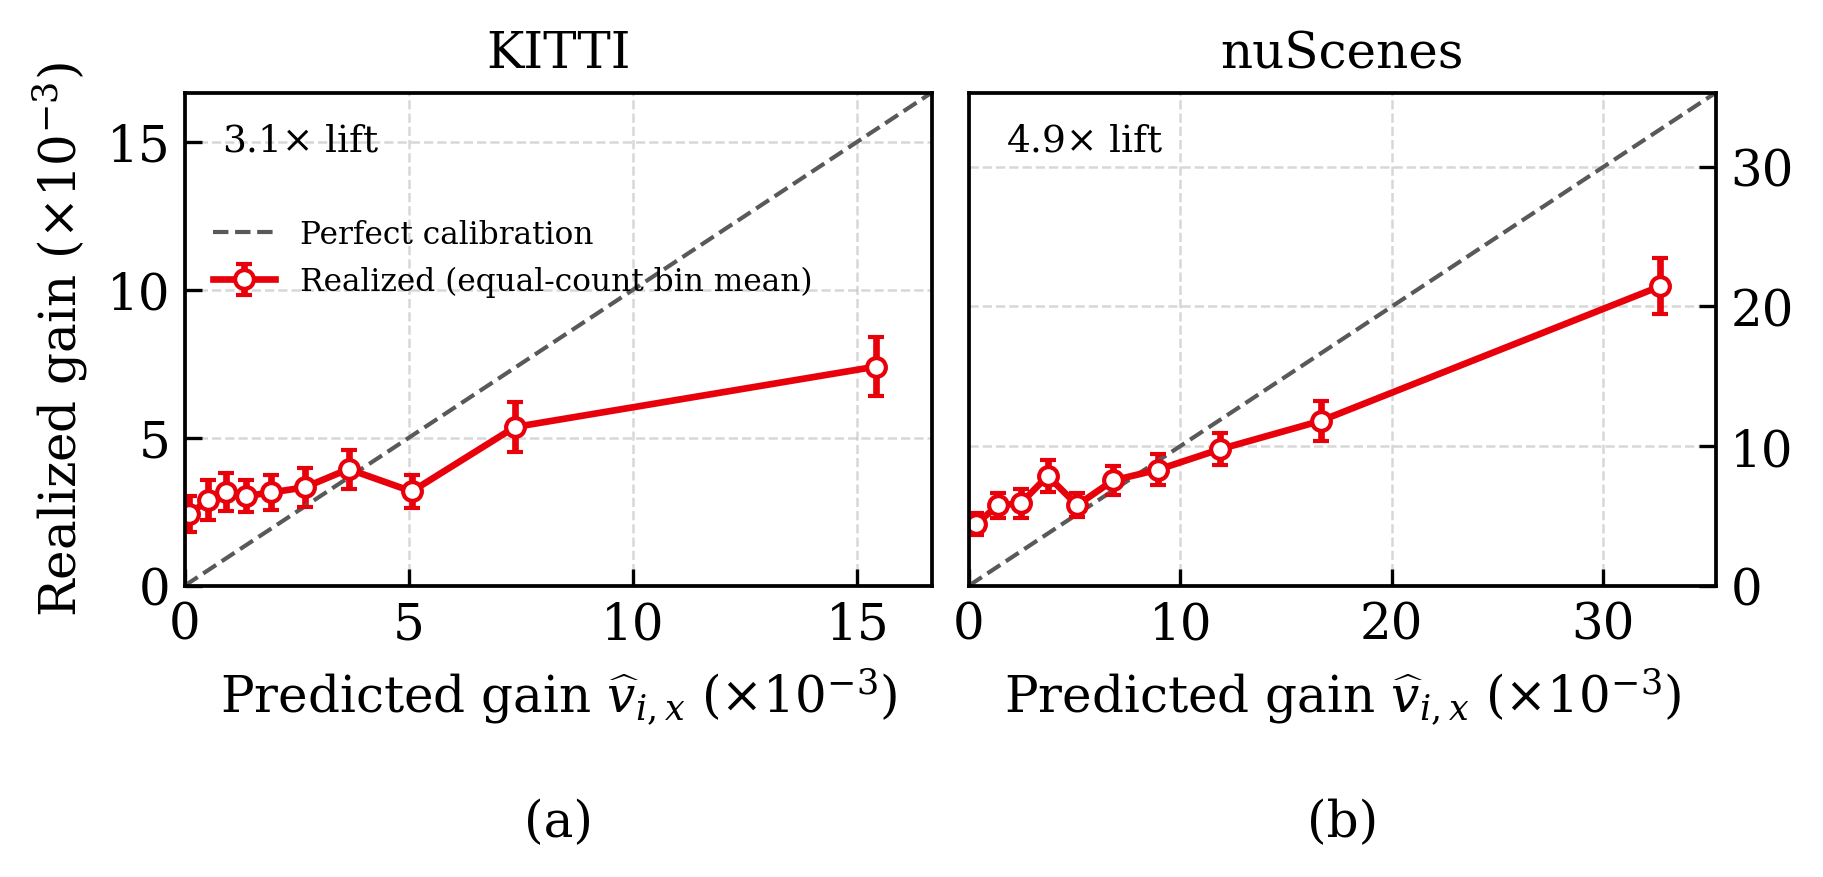
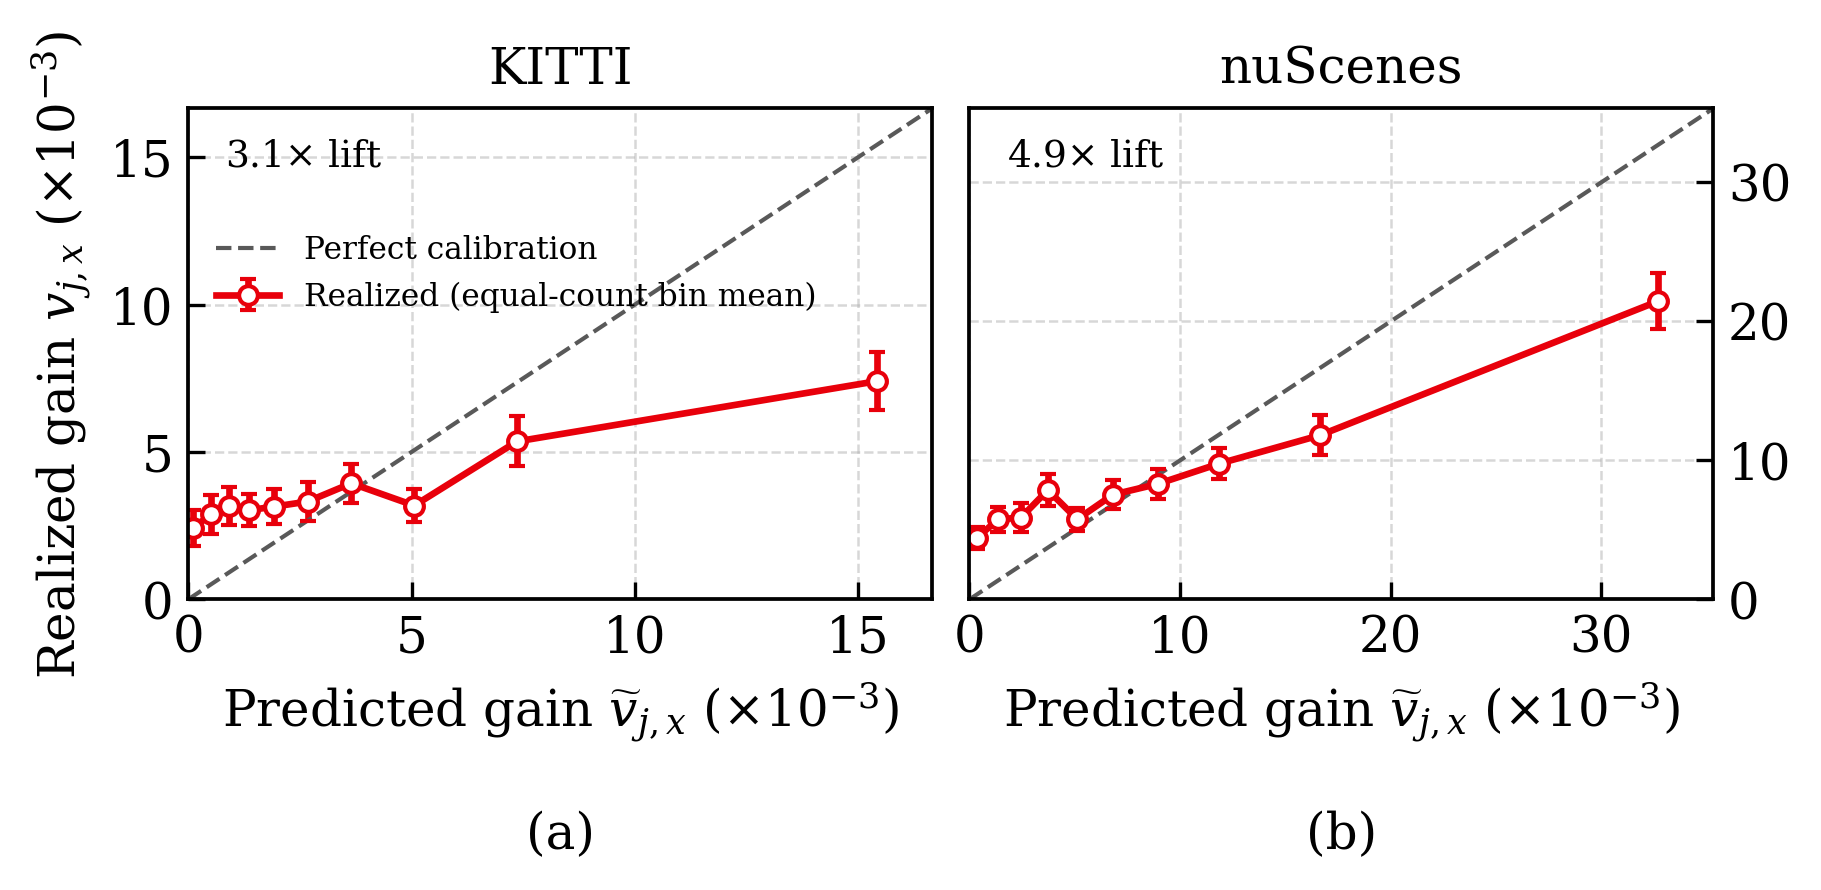
fig_seoul_calib: axis notation matched to paper (tilde-v_{j,x})

diff --git a/seoul_pack/generate.py b/seoul_pack/generate.py
@@ -909,8 +909,8 @@ def fig_deadline_calib_2x2(deadlines=(1, 2, 3, 5, 10, 20), warmup=30,
                 transform=ax.transAxes, ha="left", va="top", fontsize=9)
         ax.set_xlim(0, lim)
         ax.set_ylim(0, lim)
-        ax.set_xlabel(r"Predicted gain $\widehat{v}_{i,x}$ ($\times 10^{-3}$)")
-        ax.set_ylabel(r"Realized gain ($\times 10^{-3}$)"
+        ax.set_xlabel(r"Predicted gain $\widetilde{v}_{j,x}$ ($\times 10^{-3}$)")
+        ax.set_ylabel(r"Realized gain $v_{j,x}$ ($\times 10^{-3}$)"
                       if col == 0 else "")
         if col == 0:
             ax.legend(fontsize=7.5, loc="upper left",
@@ -1053,8 +1053,8 @@ def fig_deadline_calib_split(deadlines=(1, 2, 3, 5, 10, 20), warmup=30,
         ax.set_title(label, fontsize=12)
         ax.set_xlim(0, lim)
         ax.set_ylim(0, lim)
-        ax.set_xlabel(r"Predicted gain $\widehat{v}_{i,x}$ ($\times 10^{-3}$)")
-        ax.set_ylabel(r"Realized gain ($\times 10^{-3}$)"
+        ax.set_xlabel(r"Predicted gain $\widetilde{v}_{j,x}$ ($\times 10^{-3}$)")
+        ax.set_ylabel(r"Realized gain $v_{j,x}$ ($\times 10^{-3}$)"
                       if col == 0 else "")
         if col == 0:
             ax.legend(fontsize=7.5, loc="upper left",
@@ -1341,7 +1341,7 @@ def fig_calib_bars(warmup=30, nbins=10):
                alpha=0.85, edgecolor="black", lw=0.5)
         ax.set_title(label, fontsize=12)
         ax.set_xlabel("Predicted-gain decile")
-        ax.set_ylabel(r"Realized gain ($\times 10^{-3}$)"
+        ax.set_ylabel(r"Realized gain $v_{j,x}$ ($\times 10^{-3}$)"
                       if col == 0 else "")
         ax.set_xticks([1, 3, 5, 7, 9, 10])
         ax.text(0.05, 0.93,
@@ -1446,8 +1446,8 @@ def fig_calib_recal(warmup=30, nbins=6):
                 transform=ax.transAxes, ha="left", va="top", fontsize=9)
         ax.set_title(label, fontsize=12)
         ax.set_xlim(0, lim); ax.set_ylim(0, lim)
-        ax.set_xlabel(r"Predicted gain $\widehat{v}_{i,x}$ ($\times 10^{-3}$)")
-        ax.set_ylabel(r"Realized gain ($\times 10^{-3}$)" if col == 0 else "")
+        ax.set_xlabel(r"Predicted gain $\widetilde{v}_{j,x}$ ($\times 10^{-3}$)")
+        ax.set_ylabel(r"Realized gain $v_{j,x}$ ($\times 10^{-3}$)" if col == 0 else "")
         if col == 0:
             ax.legend(fontsize=7.5, loc="upper left",
                       bbox_to_anchor=(0.0, 0.80))
